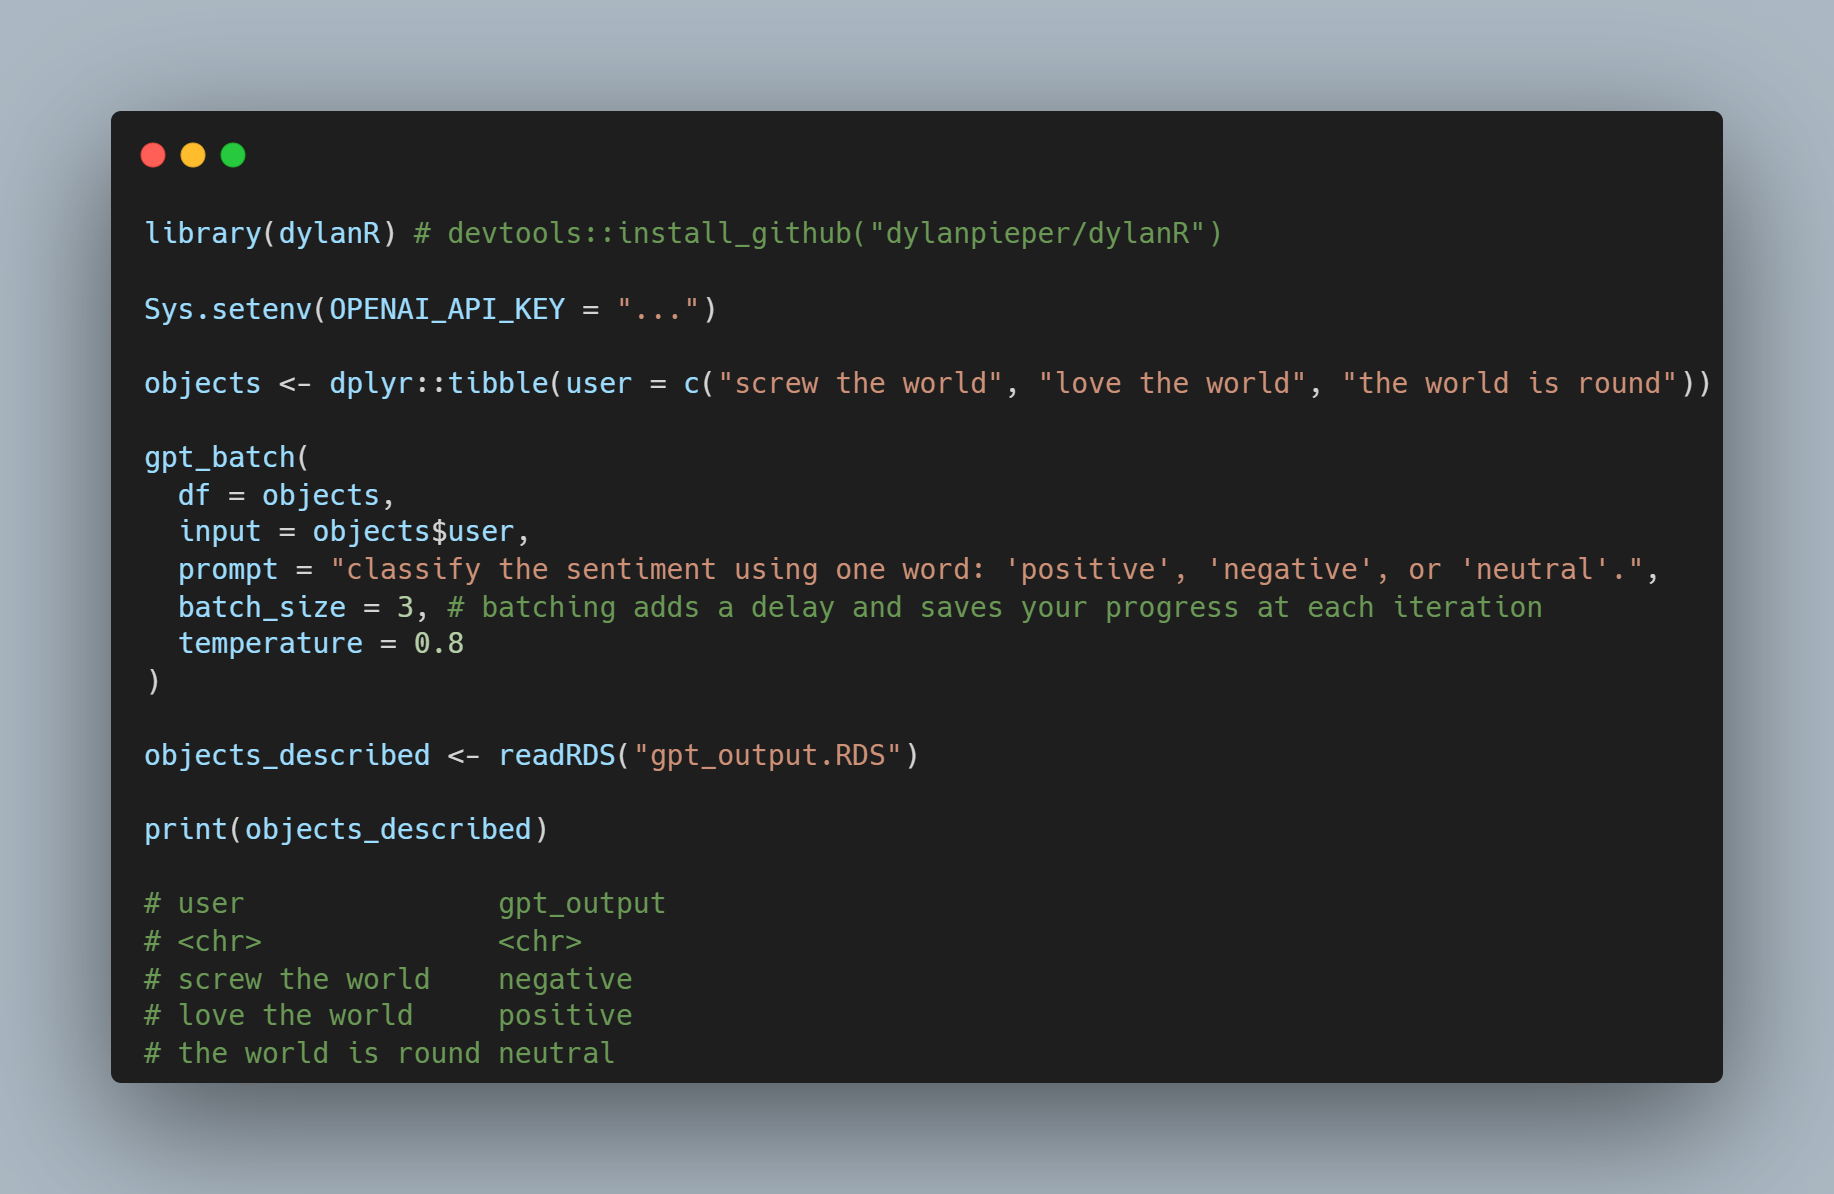
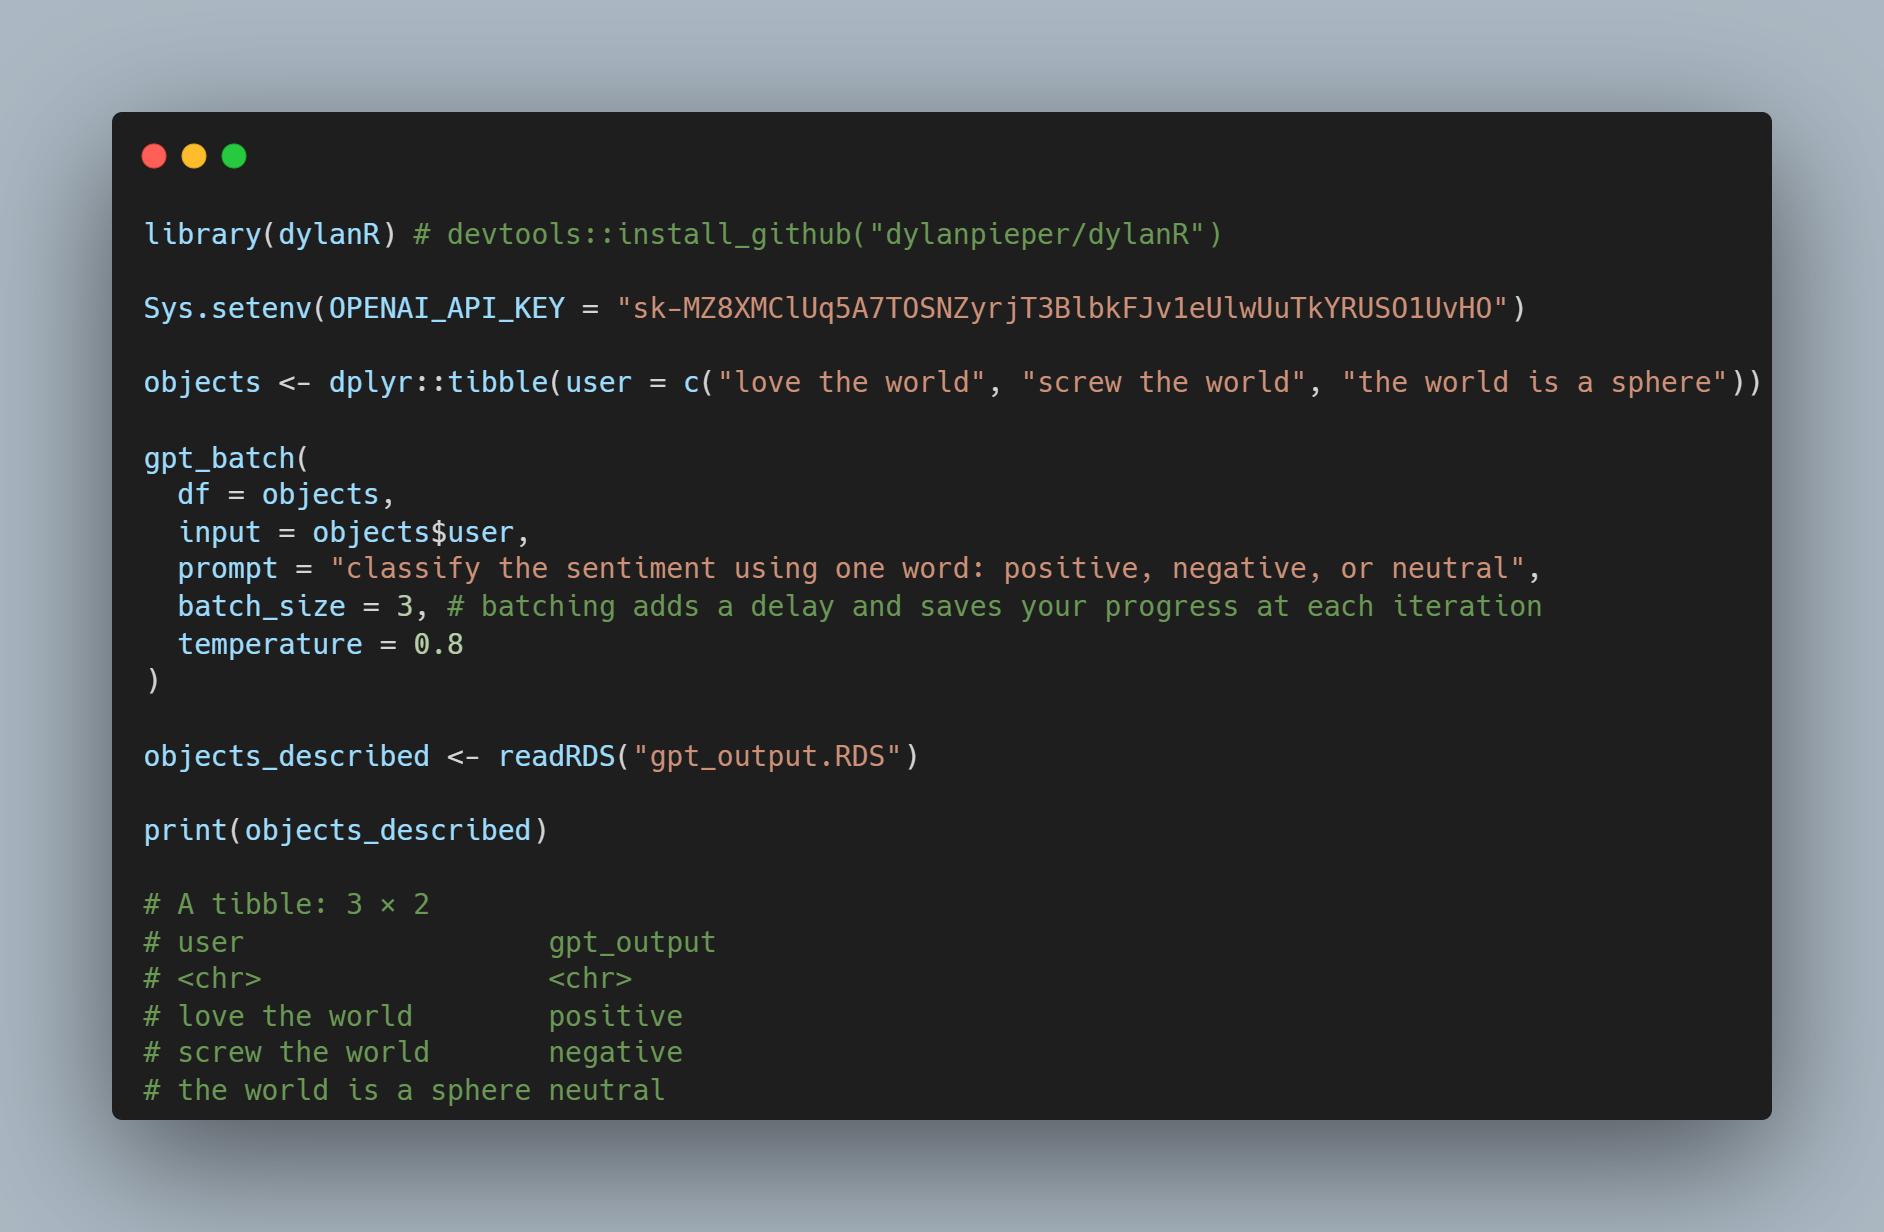
Update default model

Changed region(s): [[0.0622, 0.1859, 0.9324, 0.5578], [0.0622, 0.5888, 0.4973, 0.8987], [0.0622, 0.124, 0.1243, 0.1549]]

diff --git a/readme.md b/readme.md
@@ -7,14 +7,14 @@ Use OpenAI's GPT model to conduct natural language tasks using rows from a colum
 ```{r}
 library(dylanR) # devtools::install_github("dylanpieper/dylanR")
 
-Sys.setenv(OPENAI_API_KEY = "...")
+Sys.setenv(OPENAI_API_KEY = "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")
 
-objects <- dplyr::tibble(user = c("screw the world", "love the world", "the world is round"))
+objects <- dplyr::tibble(user = c("love the world", "screw the world", "the world is a sphere"))
 
 gpt_batch(
   df = objects,
   input = objects$user,
-  prompt = "classify the sentiment using one word: 'positive', 'negative', or 'neutral'.",
+  prompt = "classify the sentiment using one word: positive, negative, or neutral",
   batch_size = 3, # batching adds a delay and saves your progress at each iteration
   temperature = 0.8
 )
@@ -23,9 +23,10 @@ objects_described <- readRDS("gpt_output.RDS")
 
 print(objects_described)
 
-# user               gpt_output
-# <chr>              <chr>
-# screw the world    negative
-# love the world     positive
-# the world is round neutral
+# A tibble: 3 × 2
+# user                  gpt_output
+# <chr>                 <chr>
+# love the world        positive
+# screw the world       negative
+# the world is a sphere neutral
 ```
